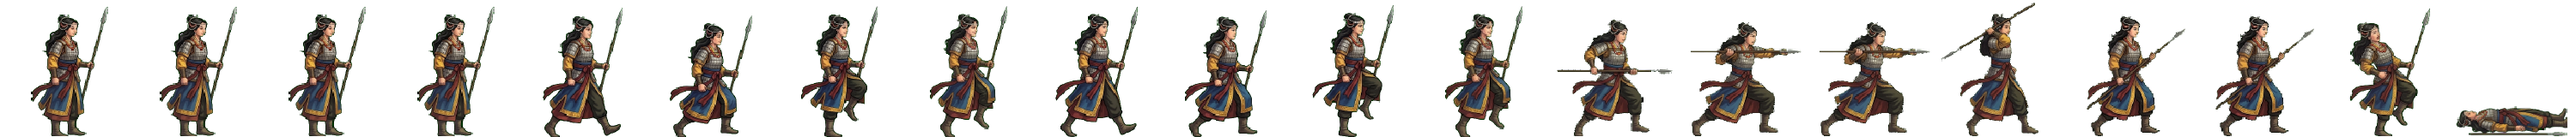
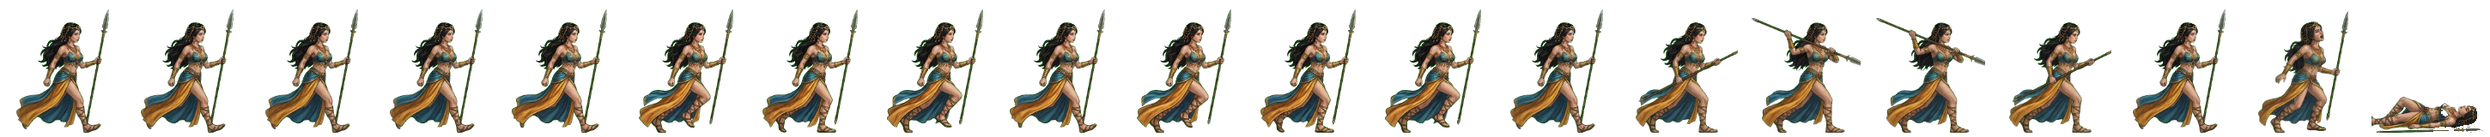
전투 띠 다시: 허황옥 초상대로 (금 머리 장식·보석 윗옷·트임 비단 치마 · 갑옷을 벗김 · 창 찌르기) (형 11-08)
Claude-Session: https://claude.ai/code/session_01TRiuNAG8xSjdmjCFpc8Rd5

diff --git a/src/realm/data/art.ts b/src/realm/data/art.ts
@@ -492,7 +492,7 @@ export const GEN_ANIM: Readonly<Partial<Record<string, { ar: number; body: numbe
   haebi: { ar: 152 / 160, body: 0.906 }, // 11-08 초상대로 다시 (형: 「투구 쓰고 원본과 다르다」 · 제미나이 걷기 4×2 + 동작 4×2 → 20컷 · assets_src/realm/gemini/generals2) · 전투 옷은 더 드러나게 (형 11-08)
   soebi: { ar: 156 / 160, body: 0.906 }, // 11-08 초상대로 다시 (형: 「투구 쓰고 원본과 다르다」 · 제미나이 걷기 4×2 + 동작 4×2 → 20컷 · assets_src/realm/gemini/generals2) · 쇠 덩이 묶음 대신 큰 쇠망치
   ara: { ar: 157 / 160, body: 0.906 }, // 11-08 초상대로 다시 (형: 「투구 쓰고 원본과 다르다」 · 제미나이 걷기 4×2 + 동작 4×2 → 20컷 · assets_src/realm/gemini/generals2)
-  heo: { ar: 150 / 160, body: 0.941 }, // 11-05 밤 제 띠 (제미나이 edu Flash · 진주·산호 꿴 물결머리·푸른·샛노란 비단 위 미늘·붉은 띠·긴 창 · B 의 서기가 걷는 자세라 C 에서 서기·맞음·쓰러짐 셋을 따로 받아 갈아 끼움 · 휘두르기 초록 자국 지움)
+  heo: { ar: 145 / 160, body: 0.900 }, // 11-08 초상대로 다시 (형: 「투구 쓰고 원본과 다르다」 · 제미나이 걷기 4×2 + 동작 4×2 → 20컷 · assets_src/realm/gemini/generals2) · 갑옷 대신 보석 윗옷·트임 치마 (형: 전투 옷은 더 드러나게)
   gamsil: { ar: 156 / 160, body: 0.901 }, // 11-05 밤 제 띠 (제미나이 edu Flash · 주홍 무늬 겉옷·청동 거울·방울 지팡이 · 쓰러짐 장은 옷이 딴사람으로 나와 버리고 맞음 컷을 눕혀 씀(tools/laydown.ps1))
   sori: { ar: 280 / 160, body: 0.9375 }, // normal portrait, right-hand dagger, shared four-pose walk
   sogeumbi: { ar: 280 / 160, body: 0.9375 }, // same-hand short downcut, shared four-pose walk

diff --git a/src/ui/realm/battle-strikes.ts b/src/ui/realm/battle-strikes.ts
@@ -140,7 +140,7 @@ const CONTACT: Readonly<Record<string, [number, number, number]>> = {
   'gen-g-spear': [15, .99, .32], 'gen-g-sword': [16, .99, .33], 'gen-w-spear': [14, .98, .56],
   'gen-mount': [15, .98, .22], 'gen-ara': [14, 0.76, 0.94], 'gen-aryeong': [14, 0.94, 0.26],
   'gen-daeso': [14, 0.95, 0.34], 'gen-eureum': [14, .95, .13], 'gen-gamsil': [14, .92, .69],
-  'gen-haebi': [14, 0.87, 0.53], 'gen-heo': [14, .97, .38], 'gen-hyeokgeose': [14, 0.83, 0.94],
+  'gen-haebi': [14, 0.87, 0.53], 'gen-heo': [14, 0.94, 0.46], 'gen-hyeokgeose': [14, 0.83, 0.94],
   'gen-hyeopbo': [14, .93, .21], 'gen-malgalgi': [14, 0.88, 0.28], 'gen-mari': [14, .98, .47],
   'gen-oi': [14, .98, .48], 'gen-onjo': [14, 0.83, 0.93], 'gen-soebi': [14, 0.80, 0.95],
   'gen-soseono': [14, 0.92, 0.31],
